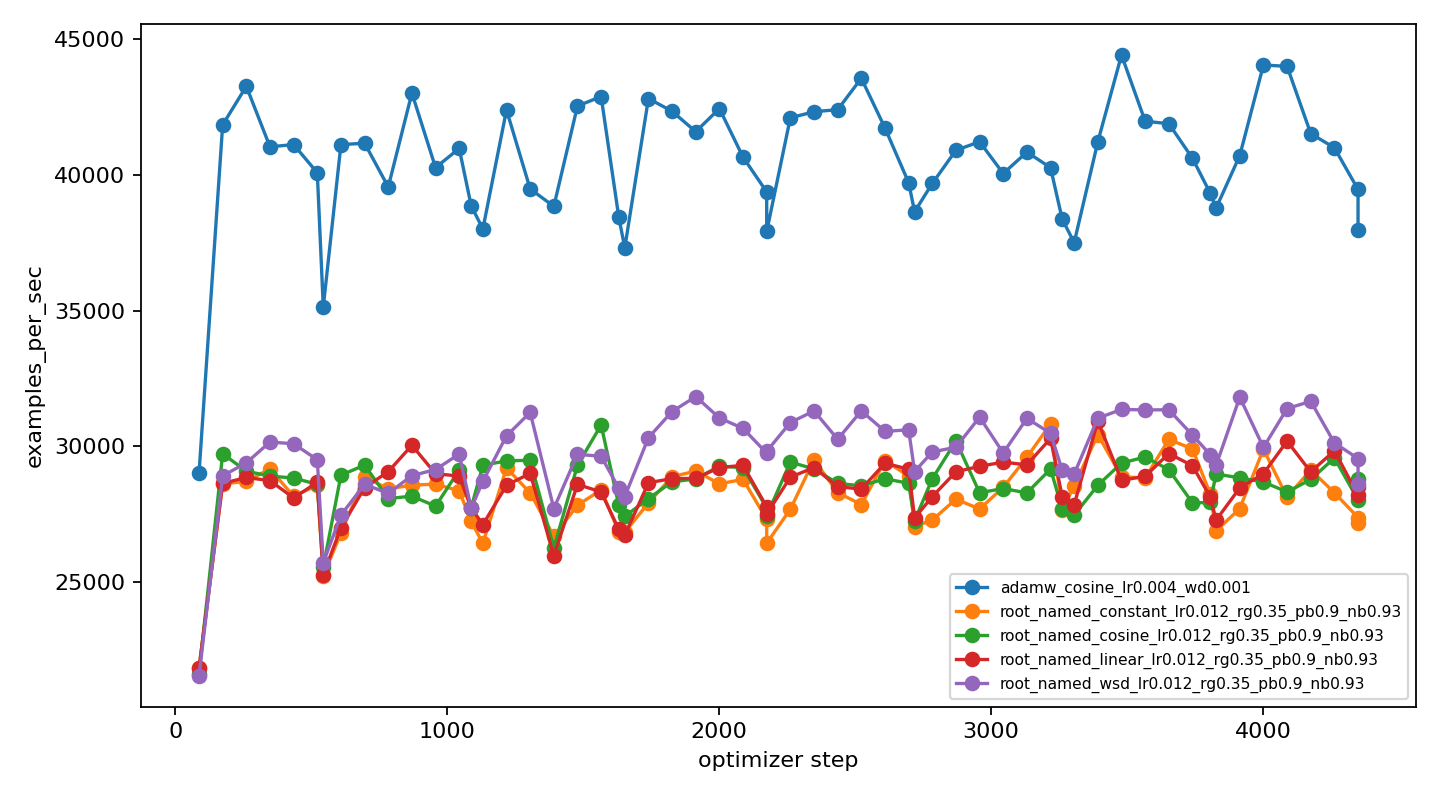
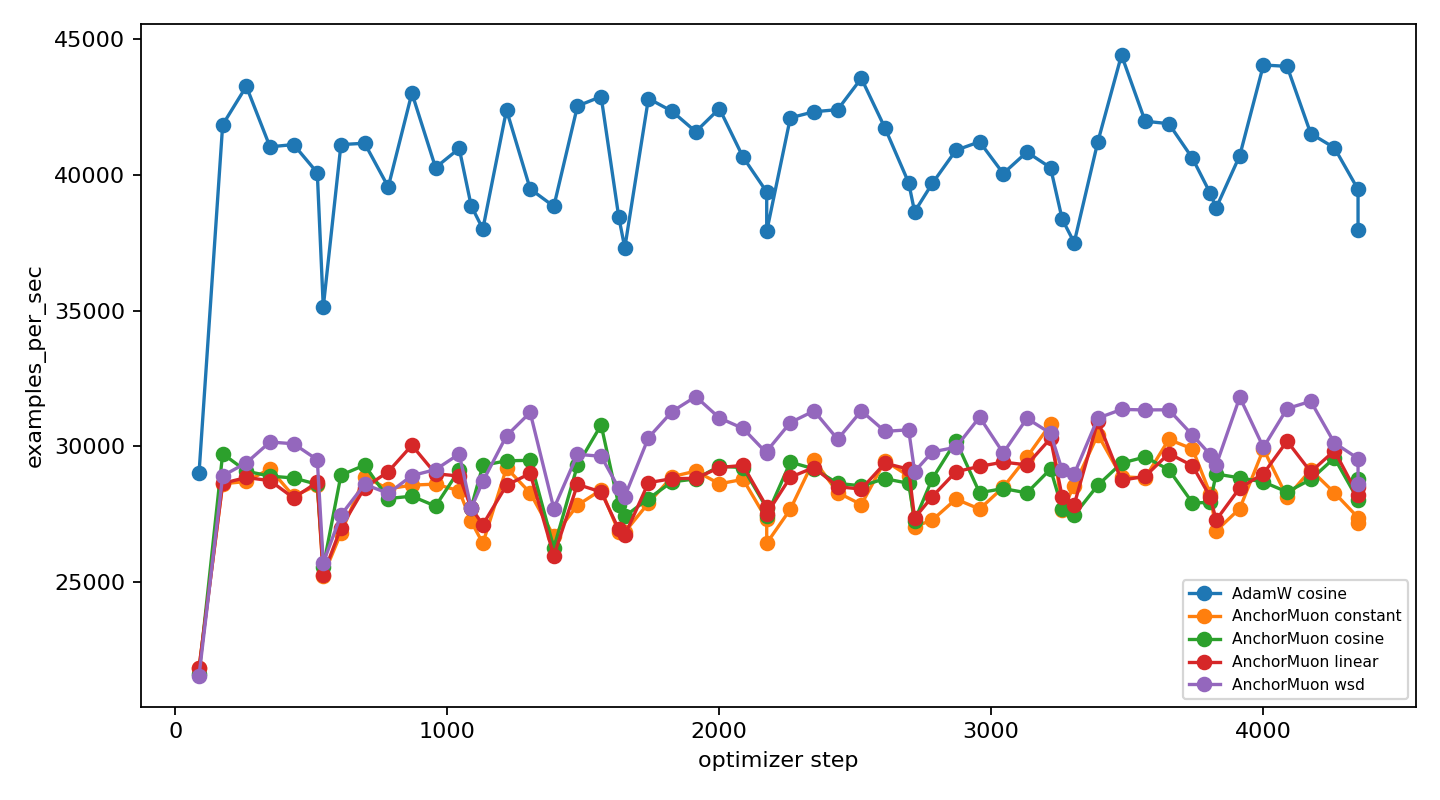
Relabel optimizer schedule plots

Changed region(s): [[0.6562, 0.7188, 0.9688, 0.875]]

diff --git a/workers/codex_noradam_confidence/experiments/run_cifar10_ablation.py b/workers/codex_noradam_confidence/experiments/run_cifar10_ablation.py
@@ -1263,6 +1263,30 @@ def summarize(output_dir: Path, make_plots: bool) -> None:
         try:
             import matplotlib.pyplot as plt
 
+            def display_label(trial: str) -> str:
+                """Human-facing plot label; raw trial IDs remain in CSV/JSON."""
+                seed_suffix = ""
+                seed_match = re.search(r"_seed(\d+)$", trial)
+                if seed_match:
+                    seed_suffix = f" seed {seed_match.group(1)}"
+                    trial = trial[: seed_match.start()]
+                if trial.startswith("final_"):
+                    parts = trial.split("_", 2)
+                    if len(parts) == 3:
+                        trial = parts[2]
+                if trial.startswith("adamw_"):
+                    schedule = "cosine" if "cosine" in trial else "schedule"
+                    return f"AdamW {schedule}{seed_suffix}"
+                if trial.startswith("root_named_"):
+                    rest = trial[len("root_named_"):]
+                    schedule = rest.split("_", 1)[0]
+                    return f"AnchorMuon {schedule}{seed_suffix}"
+                if trial.startswith("root_"):
+                    rest = trial[len("root_"):]
+                    schedule = rest.split("_", 1)[0]
+                    return f"AnchorMuon {schedule}{seed_suffix}"
+                return f"{trial}{seed_suffix}"
+
             rows = collect_epoch_rows(output_dir)
             by_trial: dict[str, list[dict[str, float]]] = {}
             for row in rows:
@@ -1278,7 +1302,12 @@ def summarize(output_dir: Path, make_plots: bool) -> None:
                 plt.figure(figsize=(9, 5))
                 for trial, vals in by_trial.items():
                     vals = sorted(vals, key=lambda x: x["step"])
-                    plt.plot([v["step"] for v in vals], [v[metric] for v in vals], marker="o", label=trial)
+                    plt.plot(
+                        [v["step"] for v in vals],
+                        [v[metric] for v in vals],
+                        marker="o",
+                        label=display_label(trial),
+                    )
                 plt.xlabel("optimizer step")
                 plt.ylabel(metric)
                 plt.legend(fontsize=7)
@@ -1295,7 +1324,7 @@ def summarize(output_dir: Path, make_plots: bool) -> None:
                 available = sorted(available, key=lambda row: float(row[metric]), reverse=reverse)
                 height = max(4.0, 0.32 * len(available))
                 plt.figure(figsize=(11, height))
-                labels = [str(row["trial"]) for row in available]
+                labels = [display_label(str(row["trial"])) for row in available]
                 vals = [float(row[metric]) for row in available]
                 bars = plt.barh(labels, vals)
                 plt.gca().invert_yaxis()
